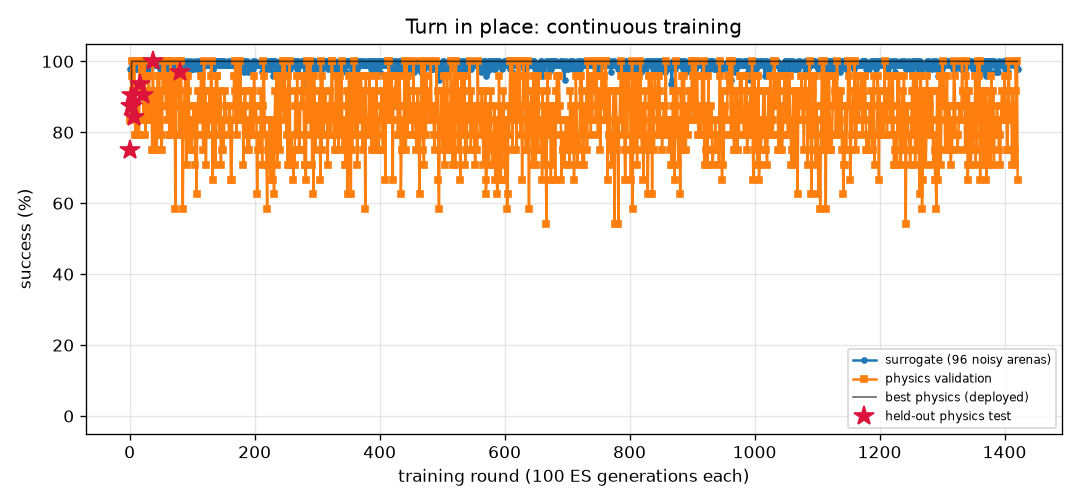
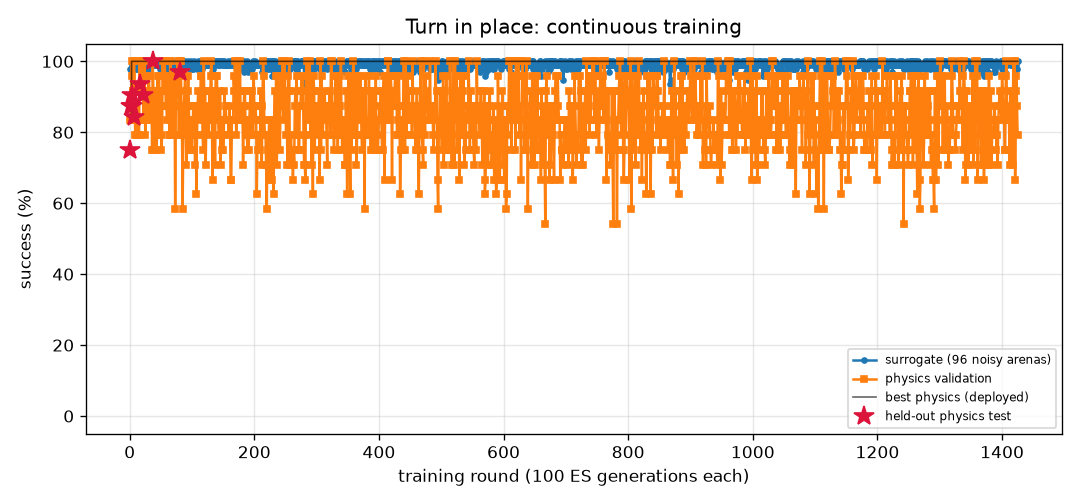
FlyLab: continuous training progress
- walk_forward: optimal, physics val 100% of 24, round 574
- turn: optimal, physics val 100% of 24, round 1425
- goto: optimal, physics val 100% of 24, round 442
- odor_seek: optimal, physics val 100% of 24, round 355
- odor_avoid: optimal, physics val 100% of 24, round 1188
- light_seek: optimal, physics val 100% of 24, round 647
- light_avoid: optimal, physics val 100% of 24, round 902

diff --git a/projects/09_flylab/training/turn/REPORT.md b/projects/09_flylab/training/turn/REPORT.md
@@ -1,14 +1,14 @@
 # Turn in place (`turn`) — training report
 
-*Auto-generated by `train_brains.py`, last updated 2026-11-27T23:17:49.*
+*Auto-generated by `train_brains.py`, last updated 2026-11-28T16:49:29.*
 
 ![curve](curve.png)
 
 | | |
 |---|---|
-| rounds | 1421 |
-| ES generations | 142100 |
-| physics runs | 34350 |
+| rounds | 1425 |
+| ES generations | 142500 |
+| physics runs | 34446 |
 | status | **optimal** |
 | best brain | round 80: physics validation **100%** on 24 arenas, surrogate 100% |
 | held-out physics test | **97%** on 32 unseen arenas (95% CI 84%-99%) (errors: [1.6, 3.3, 6.3, 3.7, 1.1, 0.4, 2.4, 2.9, 0.1, 2.6, 0.5, 2.7, 1.5, 3.1, 4.5, 0.2, 0.5, 1.1, 2.0, 4.4, 2.8, 3.2, 0.3, 2.2, 0.5, 3.0, 0.3, 5.4, 0.4, 1.0, 4.7, 10.7]) |
@@ -17,10 +17,6 @@ Physics error per arena: deg from target heading (< 20 = success).
 
 | round | level | gens | sigma | surrogate | physics val | val errors | test | note |
 |---:|---:|---:|---:|---:|---:|---|---:|---|
-| 1382 | 3 | 138200 | 0.025 | 100% | 92% | [0.3, 5.4, 1.3, 1.7, 1.5, 2.2, 5.6, 3.6, 5.8, 0.4, 4.0, 0.5, 2.7, 2.8, 4.3, 0.6, 0.9, 0.7, 0.1, 0.1, 1.9, 1.0, 0.4, 3.6] |  |  |
-| 1383 | 3 | 138300 | 0.024 | 100% | 71% | [5.7, 4.1, 0.1, 2.0, 1.9, 1.6, 6.0, 5.9, 4.5, 0.1, 4.2, 0.4, 1.3, 3.8, 4.4, 1.5, 0.5, 1.5, 0.5, 0.1, 3.4, 1.6, 5.9, 5.7] |  |  |
-| 1384 | 3 | 138400 | 0.024 | 99% | 79% | [4.2, 8.7, 1.2, 1.6, 2.6, 0.6, 3.4, 4.8, 4.3, 12.4, 4.0, 1.8, 0.4, 3.1, 3.1, 1.0, 1.9, 0.9, 3.6, 0.9, 4.6, 3.9, 3.5, 4.3] |  | restart from best |
-| 1385 | 3 | 138500 | 0.024 | 99% | 79% | [9.8, 10.0, 8.9, 2.8, 8.7, 117.9, 4.5, 1.4, 4.7, 1.1, 3.1, 3.0, 2.7, 0.1, 2.8, 4.0, 3.2, 0.2, 0.5, 1.4, 8.2, 0.4, 2.5, 4.4] |  |  |
 | 1386 | 3 | 138600 | 0.025 | 99% | 79% | [5.5, 4.7, 1.5, 1.6, 4.5, 3.6, 5.1, 7.4, 5.7, 14.9, 3.1, 1.3, 0.3, 0.3, 4.8, 1.5, 0.3, 1.1, 1.5, 1.9, 6.4, 2.3, 6.1, 4.1] |  |  |
 | 1387 | 3 | 138700 | 0.025 | 97% | 83% | [7.6, 2.9, 4.3, 0.0, 14.8, 2.1, 4.5, 7.4, 5.0, 0.0, 5.0, 0.1, 1.4, 1.9, 4.8, 2.8, 4.5, 0.7, 2.6, 0.4, 3.9, 1.4, 4.4, 7.2] |  |  |
 | 1388 | 3 | 138800 | 0.026 | 98% | 88% | [11.4, 12.1, 3.8, 3.9, 10.4, 0.8, 0.7, 6.8, 0.3, 3.2, 2.5, 4.5, 4.0, 4.0, 0.3, 3.2, 4.7, 1.9, 5.0, 4.4, 9.5, 0.0, 1.5, 2.6] |  | restart from best |
@@ -57,3 +53,7 @@ Physics error per arena: deg from target heading (< 20 = success).
 | 1419 | 3 | 141900 | 0.024 | 99% | 92% | [2.2, 3.5, 1.9, 1.2, 0.4, 2.8, 4.4, 0.3, 4.5, 0.9, 3.5, 0.4, 2.6, 2.2, 4.0, 0.2, 0.1, 1.0, 1.3, 0.2, 3.3, 0.7, 5.8, 6.8] |  |  |
 | 1420 | 3 | 142000 | 0.025 | 98% | 100% | [0.2, 2.4, 2.1, 1.8, 0.1, 0.1, 7.8, 6.8, 6.9, 11.4, 3.3, 2.4, 0.4, 2.4, 2.0, 1.5, 1.0, 1.8, 0.3, 0.9, 1.9, 1.3, 5.8, 4.4] |  | restart from best |
 | 1421 | 3 | 142100 | 0.024 | 98% | 67% | [5.4, 9.4, 0.8, 1.6, 0.4, 4.5, 5.6, 4.8, 4.0, 13.9, 3.4, 2.8, 0.6, 5.6, 2.5, 2.4, 3.3, 0.7, 2.3, 2.5, 4.6, 0.4, 4.2, 3.6] |  |  |
+| 1422 | 3 | 142200 | 0.025 | 100% | 92% | [1.1, 3.2, 4.2, 0.5, 15.2, 0.7, 7.3, 4.8, 6.1, 14.7, 5.8, 2.8, 0.2, 0.1, 4.1, 3.6, 2.7, 3.6, 3.5, 6.7, 1.2, 2.8, 7.7, 4.7] |  |  |
+| 1423 | 3 | 142300 | 0.024 | 99% | 96% | [2.3, 2.3, 12.2, 1.9, 0.8, 1.1, 5.6, 7.9, 5.4, 13.2, 4.2, 1.0, 0.1, 2.0, 4.2, 0.9, 1.8, 1.1, 0.7, 17.0, 4.1, 1.9, 3.8, 2.1] |  |  |
+| 1424 | 3 | 142400 | 0.025 | 98% | 88% | [7.8, 10.7, 5.5, 4.3, 1.7, 0.7, 3.5, 8.0, 3.3, 1.9, 2.0, 2.9, 2.5, 5.3, 2.4, 2.5, 2.6, 1.0, 2.2, 2.0, 5.1, 0.5, 0.6, 2.3] |  | restart from best |
+| 1425 | 3 | 142500 | 0.024 | 100% | 79% | [1.5, 0.8, 6.0, 0.9, 1.9, 3.4, 7.3, 7.6, 7.4, 1.1, 6.0, 2.2, 0.5, 1.2, 5.1, 9.8, 2.1, 1.0, 11.7, 4.0, 1.6, 1.4, 6.1, 1.3] |  |  |

diff --git a/projects/09_flylab/training/TRAINING.md b/projects/09_flylab/training/TRAINING.md
@@ -1,13 +1,13 @@
 # FlyLab brains — continuous training log
 
-*Auto-generated by `train_brains.py`, last updated 2026-11-27T23:38:50.*
+*Auto-generated by `train_brains.py`, last updated 2026-11-28T16:49:30.*
 
 Every skill has its own brain and its own training process: surrogate ES rounds, physics validation in MuJoCo, keep-the-best selection, and a held-out physics test that is never used for selection. See each skill's report for its full round-by-round history. Mastery is progressive: passing a level (100% physics validation, >=95% surrogate) doubles the validation and test arena sets; a brain is **optimal** once it holds up at level 3 (>=95% of 24 validation arenas) AND scores >=90% on the 32 held-out test arenas. Test columns show 95% Wilson confidence intervals.
 
 | skill | rounds | ES generations | physics runs | surrogate | physics val | **physics test** | status |
 |---|---:|---:|---:|---:|---:|---:|---|
 | [Walk forward](walk_forward/REPORT.md) | 574 | 57400 | 13854 | 100% | 100% of 24 | 100% of 32 (CI 89-100%) | **optimal** |
-| [Turn in place](turn/REPORT.md) | 1421 | 142100 | 34350 | 100% | 100% of 24 | 97% of 32 (CI 84-99%) | **optimal** |
+| [Turn in place](turn/REPORT.md) | 1425 | 142500 | 34446 | 100% | 100% of 24 | 97% of 32 (CI 84-99%) | **optimal** |
 | [Go to a location](goto/REPORT.md) | 442 | 44200 | 10558 | 100% | 100% of 24 | 100% of 32 (CI 89-100%) | **optimal** |
 | [Find food by smell](odor_seek/REPORT.md) | 355 | 35500 | 8014 | 100% | 100% of 24 | 100% of 32 (CI 89-100%) | **optimal** |
 | [Escape a bad smell](odor_avoid/REPORT.md) | 1188 | 118800 | 25818 | 97% | 100% of 24 | 97% of 32 (CI 84-99%) | **optimal** |
